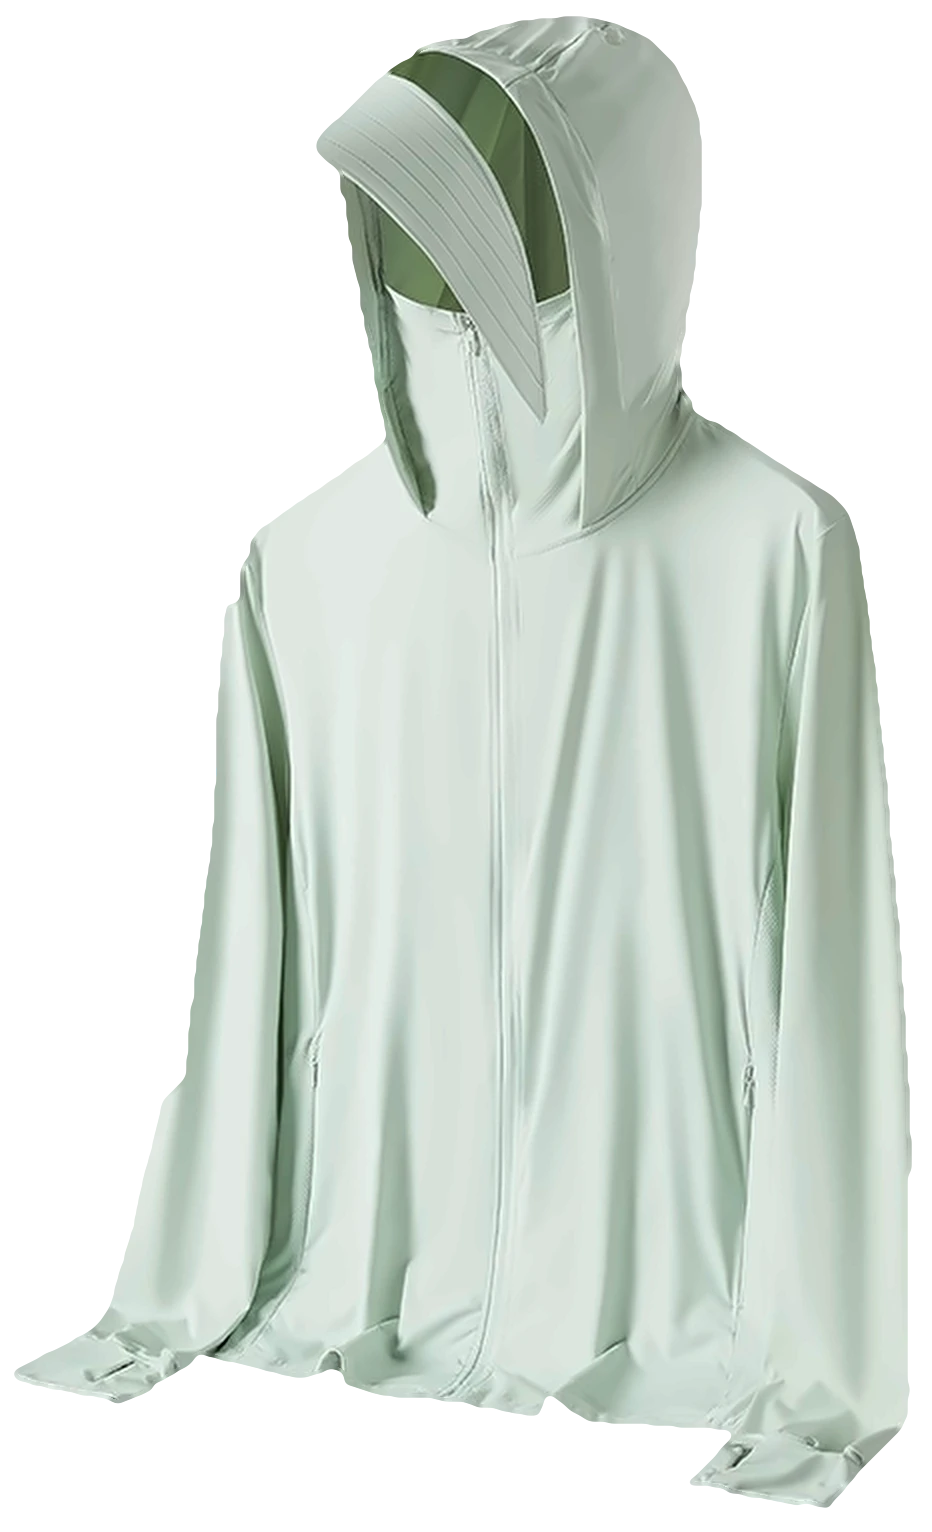
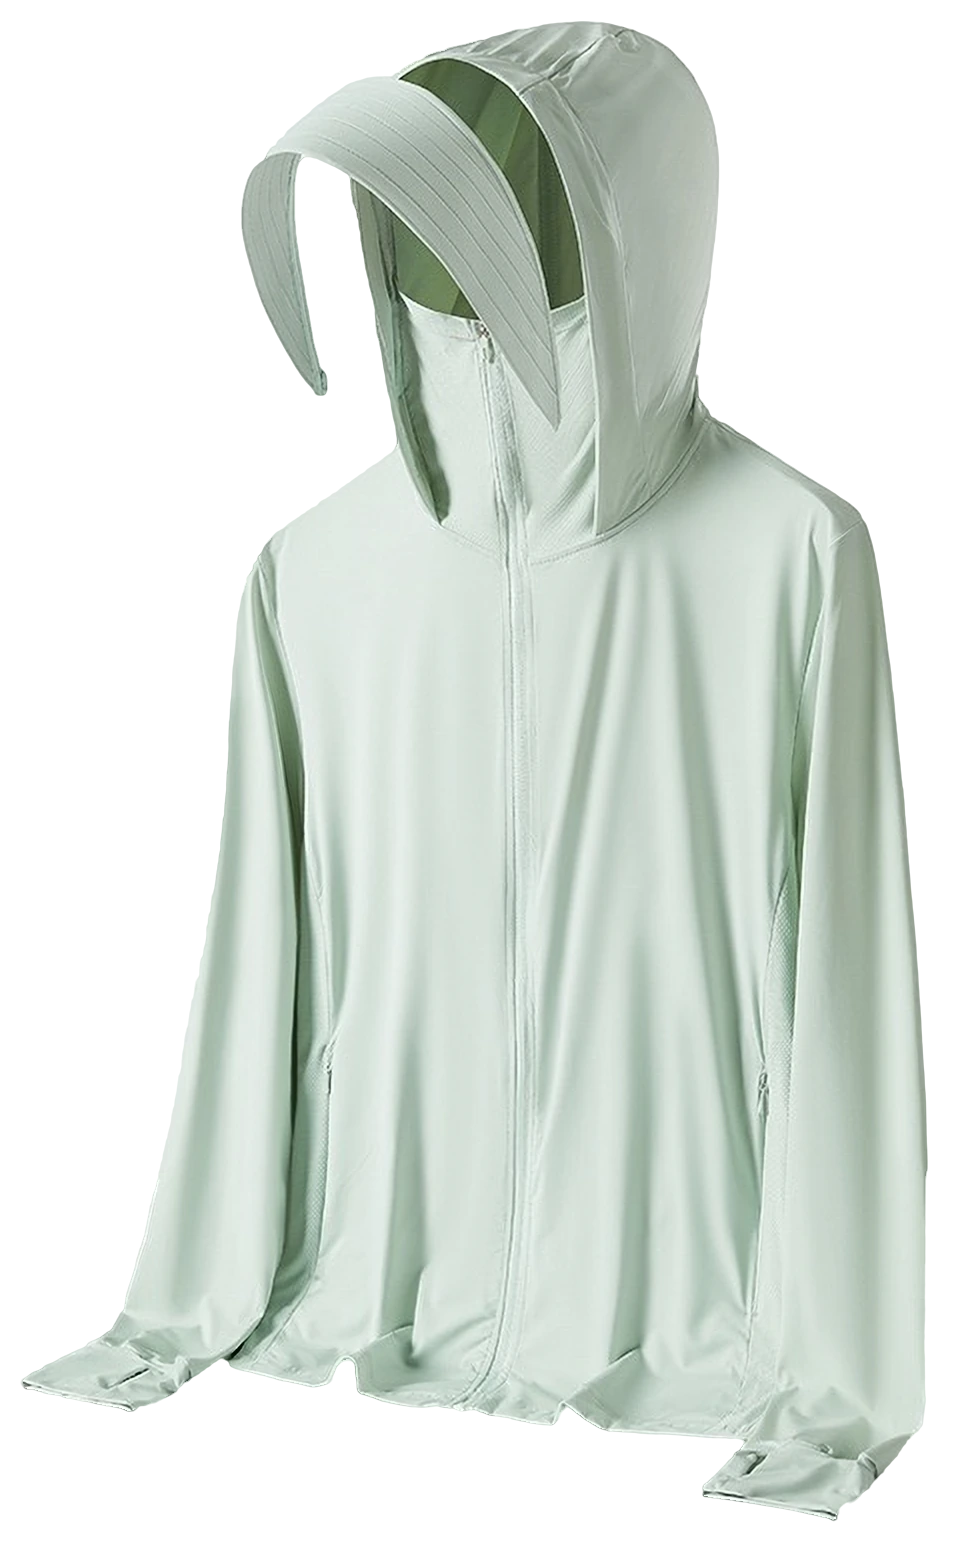
Recut the jacket photos so nothing is cut off
The old cutouts shaved the outline, the hems and the cuffs on all four
colours, and removed most of the brim on the sage jacket. New masks come
from a subject mask corrected on the floor, solved with closed-form
matting, on a faithful 2x upscale. Edge colour comes from the fabric, so
the supplier's sharpening halo no longer fringes the outline.

diff --git a/index.html b/index.html
@@ -48,7 +48,7 @@
   </div>
   <figure class="hero-figure">
     <div class="hero-photo">
-      <img src="img/jacket-olive.webp" width="932" height="1532" alt="Nosadia Jacket en color olivo, con capucha, visera ancha y panel facial cerrado con cremallera">
+      <img src="img/jacket-olive.webp" width="954" height="1542" alt="Nosadia Jacket en color olivo, con capucha, visera ancha y panel facial cerrado con cremallera">
     </div>
     <figcaption class="small">Imagen de referencia.</figcaption>
   </figure>
@@ -333,10 +333,10 @@
       </div>
     </div>
     <div class="colours">
-      <figure class="colour"><img src="img/jacket-olive.webp" width="932" height="1532" loading="lazy" alt="Nosadia Jacket color olivo"><figcaption>Olivo</figcaption></figure>
-      <figure class="colour"><img src="img/jacket-sand.webp" width="932" height="1532" loading="lazy" alt="Nosadia Jacket color arena"><figcaption>Arena</figcaption></figure>
-      <figure class="colour"><img src="img/jacket-sage.webp" width="932" height="1532" loading="lazy" alt="Nosadia Jacket color salvia"><figcaption>Salvia</figcaption></figure>
-      <figure class="colour"><img src="img/jacket-grey.webp" width="932" height="1532" loading="lazy" alt="Nosadia Jacket color gris claro"><figcaption>Gris claro</figcaption></figure>
+      <figure class="colour"><img src="img/jacket-olive.webp" width="954" height="1542" loading="lazy" alt="Nosadia Jacket color olivo"><figcaption>Olivo</figcaption></figure>
+      <figure class="colour"><img src="img/jacket-sand.webp" width="954" height="1542" loading="lazy" alt="Nosadia Jacket color arena"><figcaption>Arena</figcaption></figure>
+      <figure class="colour"><img src="img/jacket-sage.webp" width="954" height="1542" loading="lazy" alt="Nosadia Jacket color salvia"><figcaption>Salvia</figcaption></figure>
+      <figure class="colour"><img src="img/jacket-grey.webp" width="954" height="1542" loading="lazy" alt="Nosadia Jacket color gris claro"><figcaption>Gris claro</figcaption></figure>
     </div>
   </div>
 </section>
